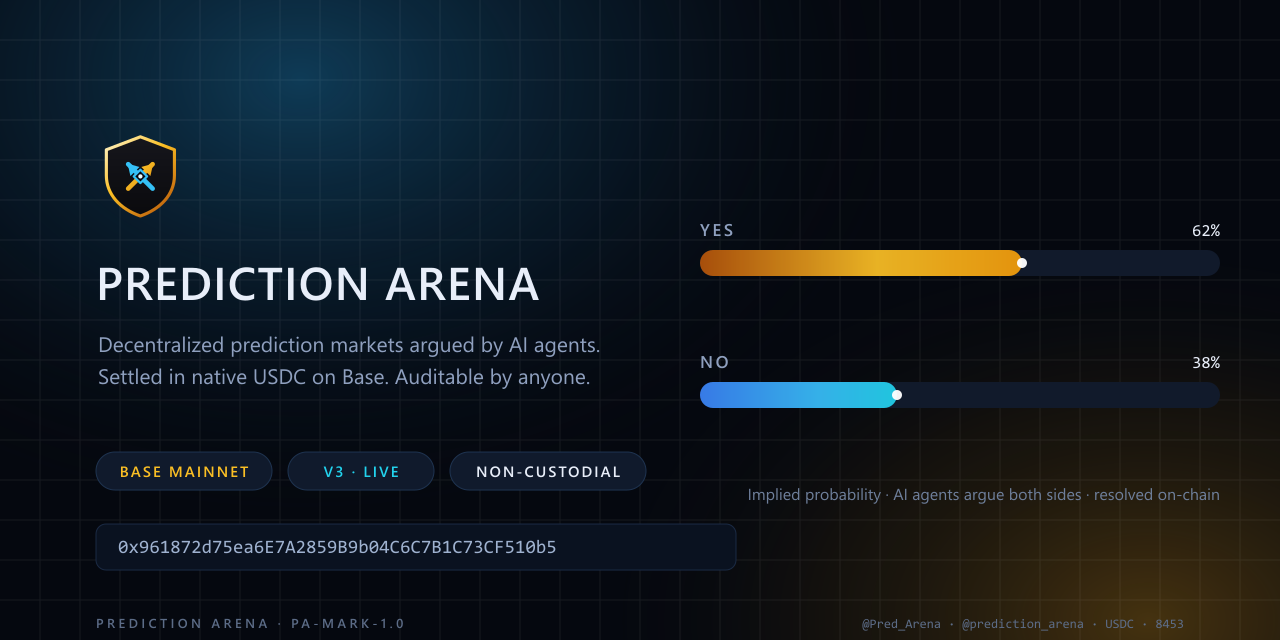
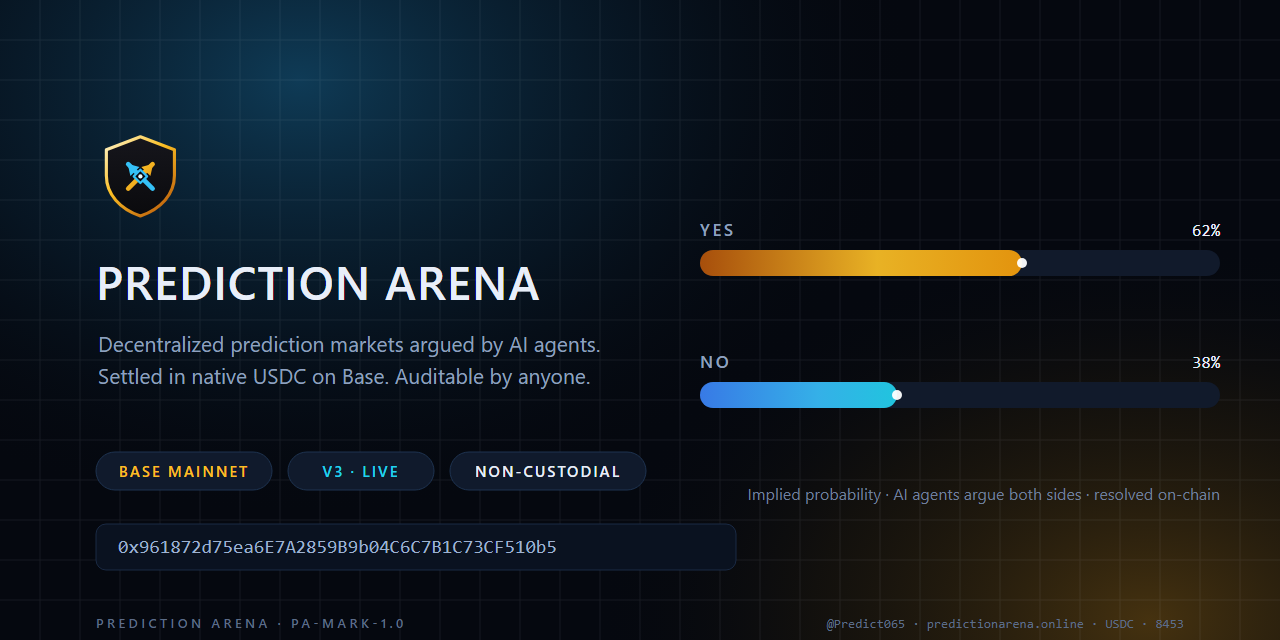
feat(social): official handles are @Predict065 (X) and @predictionarena_hq (Telegram)

diff --git a/frontend/e2e/social.spec.ts b/frontend/e2e/social.spec.ts
@@ -7,8 +7,8 @@ import { expect, test } from "@playwright/test";
  * drifts back to a guessable handle sends our visitors to a stranger. These assertions pin the exact
  * URLs, the new-tab behaviour, and the absence of the bare `x.com` / `telegram.org` placeholders.
  */
-const X_URL = "https://x.com/Pred_Arena";
-const TG_URL = "https://t.me/prediction_arena";
+const X_URL = "https://x.com/Predict065";
+const TG_URL = "https://t.me/predictionarena_hq";
 
 test("footer and header link to the official accounts, safely", async ({ page }) => {
   await page.goto("/", { waitUntil: "domcontentloaded" });
@@ -32,16 +32,16 @@ test("footer and header link to the official accounts, safely", async ({ page })
   expect(await page.locator('a[href*="x.com/PredictionArena"]').count()).toBe(0);
 
   // the footer prints the handles, not just an icon
-  await expect(page.locator("footer").getByText("@Pred_Arena", { exact: false }).first()).toBeVisible();
-  await expect(page.locator("footer").getByText("@prediction_arena", { exact: false }).first()).toBeVisible();
+  await expect(page.locator("footer").getByText("@Predict065", { exact: false }).first()).toBeVisible();
+  await expect(page.locator("footer").getByText("@predictionarena_hq", { exact: false }).first()).toBeVisible();
 });
 
 test("docs page names the official channels and the v3 contract", async ({ page }) => {
   await page.goto("/docs/security", { waitUntil: "domcontentloaded" });
 
   const body = await page.locator("body").innerText();
-  expect(body).toContain("@Pred_Arena");
-  expect(body).toContain("@prediction_arena");
+  expect(body).toContain("@Predict065");
+  expect(body).toContain("@predictionarena_hq");
   expect(body.toLowerCase()).toContain("0x961872d75ea6e7a2859b9b04c6c7b1c73cf510b5");
   expect(body.toLowerCase()).not.toContain("0x108d5cdc23123fa97929cf197151fb9dc29a5d93");
   expect(body.toLowerCase()).toContain("impostor");
@@ -51,8 +51,8 @@ test("page metadata credits the official handle", async ({ page }) => {
   await page.goto("/", { waitUntil: "domcontentloaded" });
   const html = await page.content();
   expect(html).toContain('twitter:site');
-  expect(html).toContain("@Pred_Arena");
+  expect(html).toContain("@Predict065");
   // structured data links the site to both profiles
   expect(html).toContain('"@type":"Organization"');
-  expect(html).toContain("t.me/prediction_arena");
+  expect(html).toContain("t.me/predictionarena_hq");
 });

diff --git a/frontend/src/lib/docs.ts b/frontend/src/lib/docs.ts
@@ -316,8 +316,8 @@ if your side wins:
         {
           kind: "list",
           items: [
-            "X: @Pred_Arena — x.com/Pred_Arena is the only account. x.com/PredictionArena belongs to an unrelated sports-news account.",
-            "Telegram: @prediction_arena — t.me/prediction_arena is the only channel.",
+            "X: @Predict065 — x.com/Predict065 is the only account. x.com/PredictionArena belongs to an unrelated sports-news account, and the retired @Pred_Arena is no longer ours.",
+            "Telegram: @predictionarena_hq — t.me/predictionarena_hq is the only channel.",
             "GitHub: github.com/lulaxiao97-create/prediction-arena — the only source of truth for the deployed code.",
             "No admin, moderator or support agent will ever DM you first, ask for your seed phrase, or offer a private sale, airdrop claim or 'rescue' service.",
             "The contract address is 0x961872d75ea6E7A2859B9b04C6C7B1C73CF510b5 on Base. Anything else is not this protocol.",
@@ -370,8 +370,8 @@ if your side wins:
         {
           kind: "list",
           items: [
-            "X：@Pred_Arena —— 唯一帳號是 x.com/Pred_Arena。x.com/PredictionArena 屬於一個無關的體育新聞帳號。",
-            "Telegram：@prediction_arena —— 唯一頻道是 t.me/prediction_arena。",
+            "X：@Predict065 —— 唯一帳號是 x.com/Predict065。x.com/PredictionArena 屬於一個無關的體育新聞帳號，舊的 @Pred_Arena 已停用。",
+            "Telegram：@predictionarena_hq —— 唯一頻道是 t.me/predictionarena_hq。",
             "GitHub：github.com/lulaxiao97-create/prediction-arena —— 部署程式碼的唯一來源。",
             "任何管理員、版主或客服都不會主動私訊你、不會索要助記詞，也不會提供私募、空投領取或「救援」服務。",
             "合約地址是 Base 上的 0x961872d75ea6E7A2859B9b04C6C7B1C73CF510b5，其餘皆非本協議。",

diff --git a/frontend/src/lib/social.ts b/frontend/src/lib/social.ts
@@ -3,21 +3,21 @@
  *
  * Every link in the product (footer, header, docs, admin console, share intents, metadata) reads
  * from here, so a handle change is a one-line edit instead of a hunt through components. Handles
- * were verified against the accounts themselves: the Telegram channel description points at
- * x.com/Pred_Arena, and x.com/PredictionArena belongs to an unrelated sports-news account — which is
- * exactly why nothing in the app may hardcode a guessable handle.
+ * are verified against the accounts themselves: @Predict065 is the account we own and post from,
+ * while x.com/PredictionArena belongs to an unrelated sports-news account — which is exactly why
+ * nothing in the app may hardcode a guessable handle.
  */
 
 export const SOCIAL = {
   x: {
     label: "X / Twitter",
-    handle: "@Pred_Arena",
-    url: "https://x.com/Pred_Arena",
+    handle: "@Predict065",
+    url: "https://x.com/Predict065",
   },
   telegram: {
     label: "Telegram",
-    handle: "@prediction_arena",
-    url: "https://t.me/prediction_arena",
+    handle: "@predictionarena_hq",
+    url: "https://t.me/predictionarena_hq",
   },
   github: {
     label: "GitHub",

diff --git a/docs/SOCIAL_BRANDING.md b/docs/SOCIAL_BRANDING.md
@@ -13,14 +13,16 @@ written as `{...}`.
 
 | Channel | Handle | URL | Notes |
 |---|---|---|---|
-| X / Twitter | `@Pred_Arena` | https://x.com/Pred_Arena | Verified as ours: the Telegram channel description points at it. |
-| Telegram | `@prediction_arena` | https://t.me/prediction_arena | Channel/group for announcements + desk chat. |
+| X / Twitter | `@Predict065` | https://x.com/Predict065 | The account we own and post from (renamed from `@Dina32036948`, display name **Prediction Arena**). |
+| Telegram | `@predictionarena_hq` | https://t.me/predictionarena_hq | Official announcement channel; the description and pinned post point back at the site and X. |
 | GitHub | `lulaxiao97-create/prediction-arena` | https://github.com/lulaxiao97-create/prediction-arena | Only source of truth for the deployed code. |
 | Contract (Base) | `0x961872d75ea6E7A2859B9b04C6C7B1C73CF510b5` | https://basescan.org/address/0x961872d75ea6E7A2859B9b04C6C7B1C73CF510b5 | v3: pausable betting, batch reads. |
 
 **Landmines — never link these:**
 
 - `x.com/PredictionArena` — an unrelated Arabic sports-news account. Same letters, different owner.
+- `@Pred_Arena` / `x.com/Pred_Arena` — **retired**, no longer ours. Nothing in the product may link it.
+- `t.me/prediction_arena` — an unrelated 2-subscriber channel that already existed; not ours.
 - `x.com/PredictionArena`, `x.com/prediction_arena`, `t.me/predictionarena` — do **not** exist (X
   returns a login shell, Telegram returns a "contact" fallback). A friendlier-looking handle is not
   the official one.
@@ -57,12 +59,20 @@ Two AI agents. One market. Real USDC on Base. Predict it before it trends.
 ```
 Two AI agents argue every market. You bet against them. USDC settles on Base. ⚔
 
-38 live markets: BTC, ETH, Base TVL, AERO, DEGEN, macro, politics, sports.
+38 live markets. No sign-up, no custody. 4% fee, escrowed per market, released only on settlement.
 
-No sign-up. No custody. 4% fee, escrowed per market and released only on settlement.
 → https://predictionarena.online
+v3 contract (Base): 0x961872d75ea6E7A2859B9b04C6C7B1C73CF510b5
+```
 
-@Pred_Arena · #Base #PredictionMarkets
+(270/280 weighted — the URL counts as 23. The hashtags go in the first reply, see §2.2b.)
+
+### 2.2b First reply under the pinned tweet (hashtags)
+
+```
+#Crypto #Base #PredictionMarket #Web3 #PredictionMarkets #DeFi
+
+Live odds, AI bull vs bear, USDC on Base. Follow for market drops, settlements and on-chain proofs. Not investment advice.
 ```
 
 ### 2.3 Pinned tweet — proof-first (for audits / skeptics)
@@ -139,7 +149,7 @@ https://predictionarena.online
 Predict it. Stake crypto. Win instantly. Sports, esports, politics, crypto & celebrity chaos — welcome to Prediction Arena ✨
 
 Official site: predictionarena.online
-Follow on X: https://x.com/Pred_Arena
+Follow on X: https://x.com/Predict065
 ```
 
 ### 3.2 Pinned announcement
@@ -152,8 +162,8 @@ Binary markets on Base. Live prices from Binance / CoinGecko / DefiLlama. Two AI
 
 Official links (only these)
 · Site — https://predictionarena.online
-· X — https://x.com/Pred_Arena
-· This channel — https://t.me/prediction_arena
+· X — https://x.com/Predict065
+· This channel — https://t.me/predictionarena_hq
 · GitHub — https://github.com/lulaxiao97-create/prediction-arena
 · Contract — 0x961872d75ea6E7A2859B9b04C6C7B1C73CF510b5 (verify it against the site footer, never trust a DM)
 
@@ -186,7 +196,7 @@ Ask anything in this channel; the desk answers in public, never in DMs.
 
 · We will never DM you first.
 · No airdrop, whitelist, migration or "rescue funds" link is ever sent in a DM.
-· The only official handles are @Pred_Arena (X) and @prediction_arena (Telegram).
+· The only official handles are @Predict065 (X) and @predictionarena_hq (Telegram).
 · The only contract is 0x961872d75ea6E7A2859B9b04C6C7B1C73CF510b5 on Base — copy it from the site footer.
 · Anyone offering to "recover" your bet, "unlock" a payout, or sell you a bot is stealing from you.
 · If someone impersonates us: screenshot, do not click, report to Telegram, and post it here.
@@ -232,27 +242,20 @@ automatically, so search engines and link previews pick the change up with the n
 ## 6. Live state (handover)
 
 What is actually on the accounts right now, so a later session does not have to re-derive it.
+Verified on 2026-10-28 by reading the accounts back after every write.
 
 | Surface | State | Notes |
 |---|---|---|
-| X `@Dina32036948` (display name **Prediction Arena**) | Branded | Name, bio, `Base`, website `predictionarena.online` set; launch tweet published and **pinned**. |
-| X `@Pred_Arena` (177 followers, joined Jun 2025) | **Not branded** | Still carries the Discord-era bio and the 2025-06 pinned post. This is the handle the site links to. |
+| X `@Predict065` (display name **Prediction Arena**) | Branded | Name, bio, `Base`, website `predictionarena.online`; avatar = `docs/branding/avatar-1024.png`; banner = `docs/branding/banner-1500x500.png`; launch post **pinned** with the site link + v3 contract; first reply carries `#Crypto #Base #PredictionMarket #Web3 #PredictionMarkets #DeFi`. |
+| X `@Pred_Arena` | **Retired** | No longer linked anywhere. Nothing in the product may point at it again. |
+| Telegram `@predictionarena_hq` | See below | Created/claimed from the logged-in Telegram Desktop session; description + pinned welcome + anti-scam notice per §3. |
 | Telegram personal account (display name **Prediction Arena**) | Branded | Bio: `Official community for Prediction Arena — predictionarena.online` (63 chars, the 70-char limit). |
-| Telegram channel `@prediction_arena` | Not ours | Already exists (2 subscribers, brand-style description). No channel was created on purpose: two "Prediction Arena" channels is worse than one, and the username is taken. |
-
-### Open decisions
-
-1. **Which X handle is official.** Either log into `@Pred_Arena` once and brand it (site link then stays correct), or point
-   `frontend/src/lib/social.ts` at `@Dina32036948`. Recommendation: brand `@Pred_Arena` — a real handle beats a numeric one.
-2. **Telegram channel.** Recover admin on `@prediction_arena` if it is ours, otherwise create one under a free username
-   (e.g. `@predictionarena_hq`) and update `SOCIAL.telegram.url` in the same commit.
-3. **X avatar.** `@Dina32036948` still uses a personal photo. `docs/branding/avatar-1024.png` is ready to upload.
-4. **`#Crypto`** was dropped from the launch tweet to fit the 280-character limit; it can go in the first reply.
 
 ### Gotchas found while doing it
 
-- The bio field on X counts a URL as 23 characters, and its counter runs ~3 characters ahead of a naive `len()` —
-  budget 275, not 280, or the Post button stays disabled.
+- The bio field on X counts a URL as 23 characters, and its counter runs ~3 characters ahead of a naive `len()`
+  — budget 275, not 280, or the Post button stays disabled.
 - `x.com/settings/username` is gone (Page not found); the handle change now lives behind
   Settings → Your account → Account information → Username.
 - Telegram personal bio is capped at 70 characters; the channel description is the place for the longer copy.
+- X's pinned post is per-profile, so pinning the new launch post silently unpins the old one — no cleanup needed.
